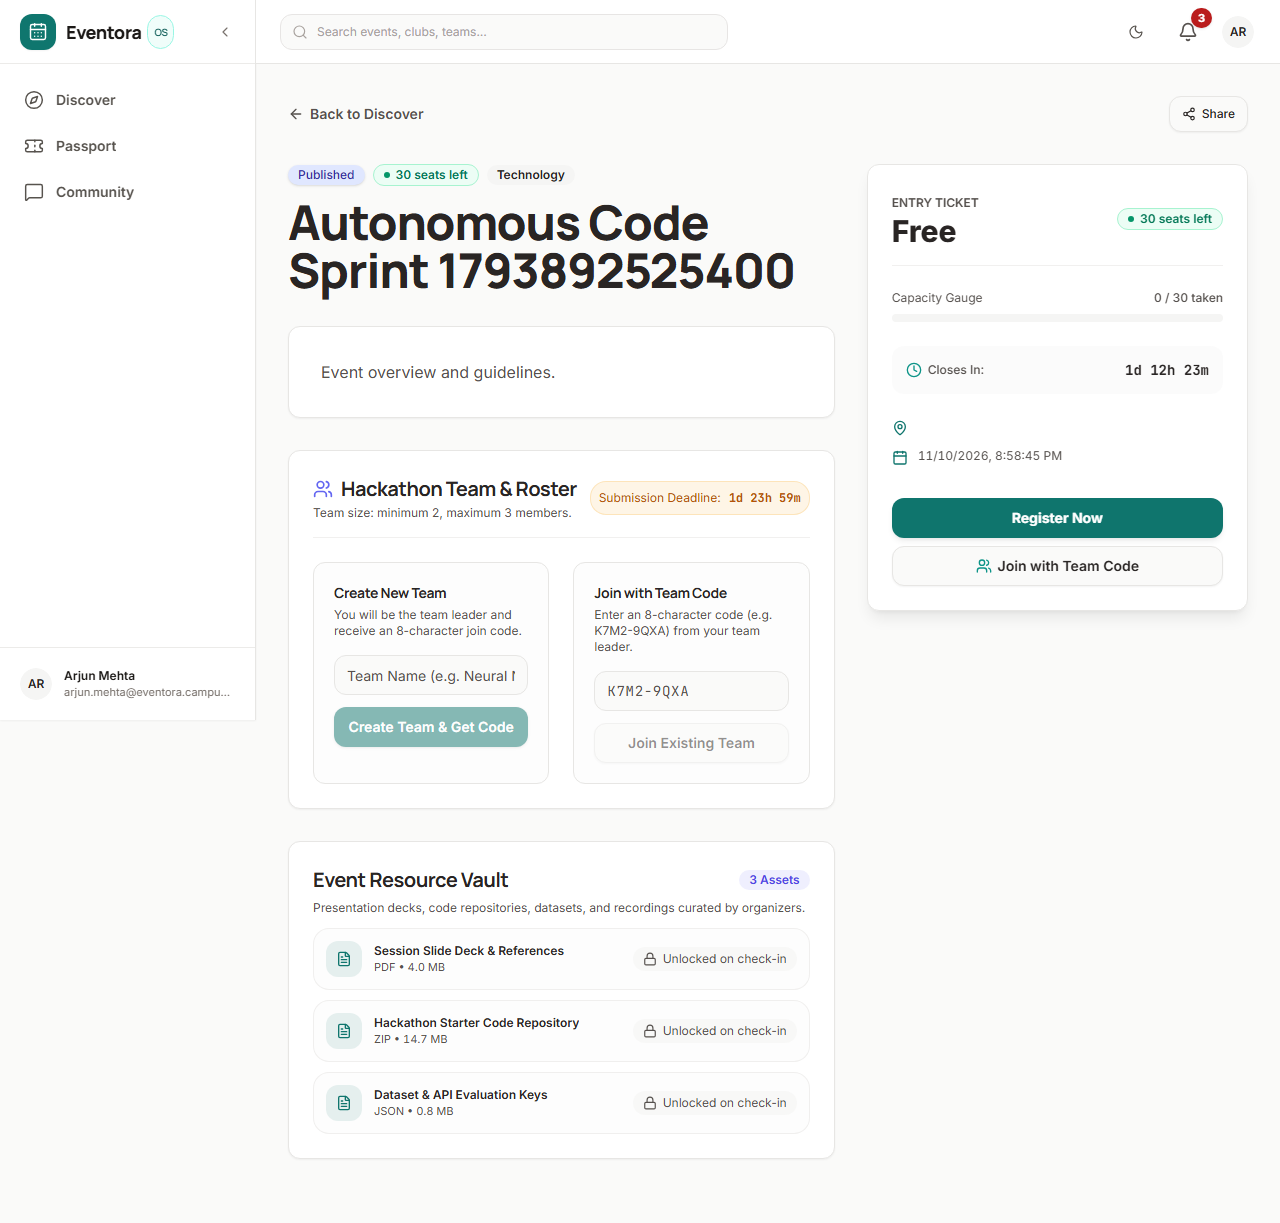
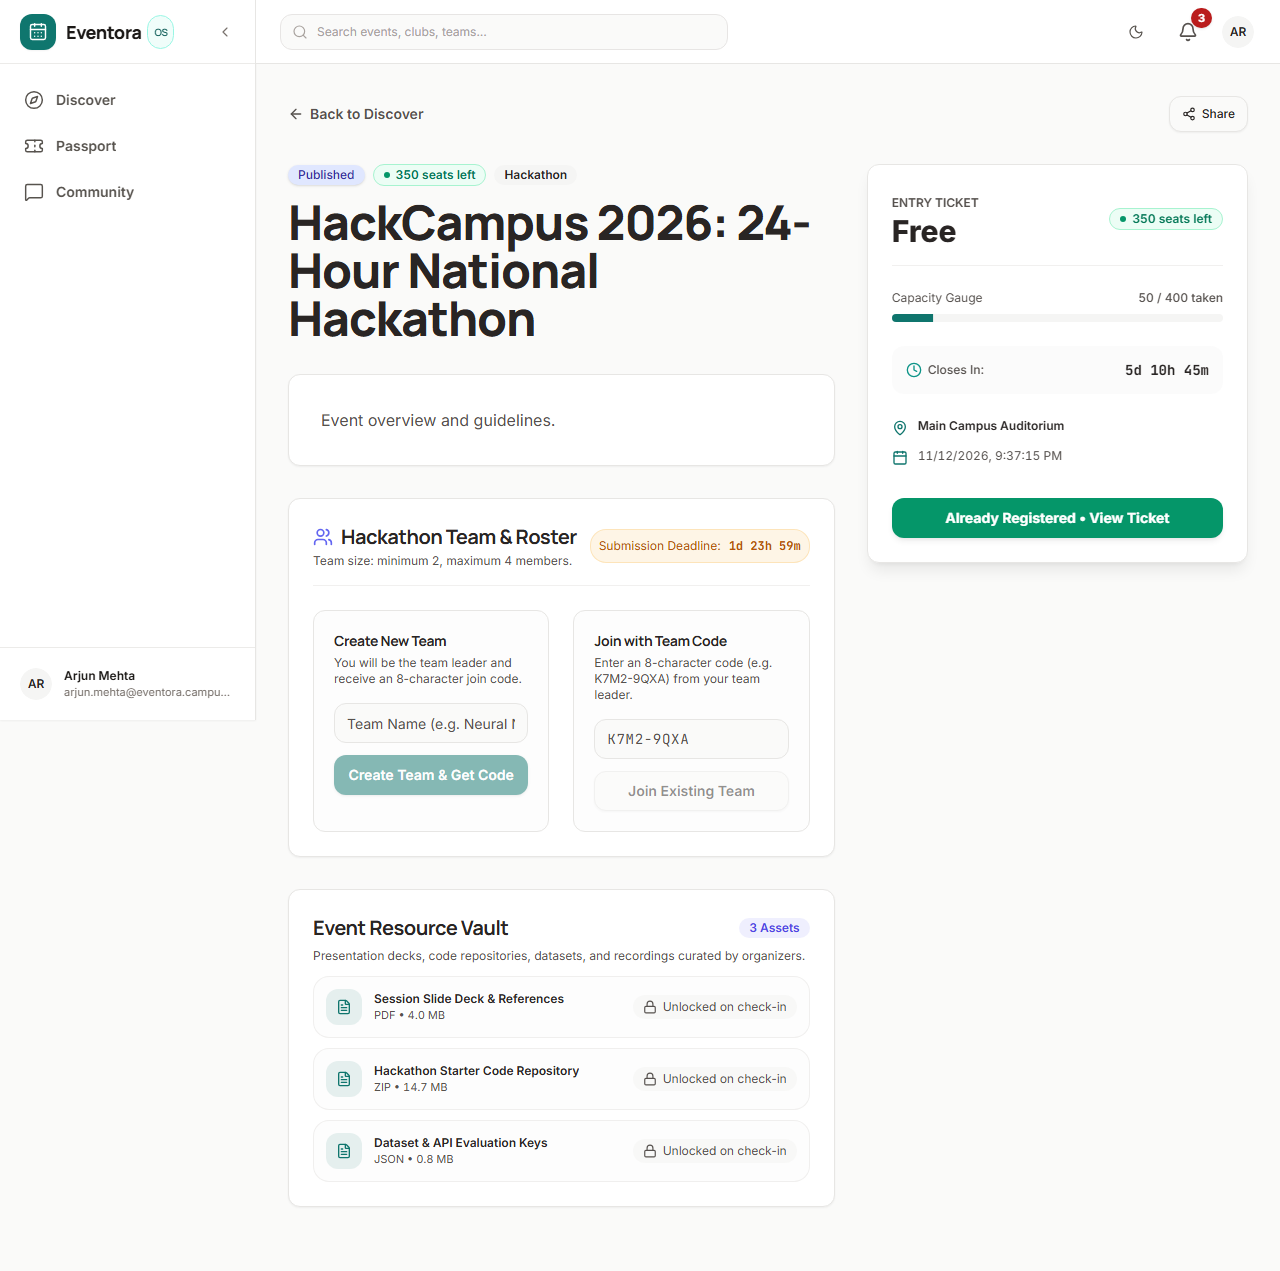
fix(e2e): cross-platform axe path resolution and seeded competition event slug in pass4 suite

diff --git a/e2e/pass4-verification.spec.ts b/e2e/pass4-verification.spec.ts
@@ -3,9 +3,28 @@ import path from 'path';
 import fs from 'fs';
 
 test.describe('Eventora Pass 4: Comprehensive Real Browser & Verification Suite', () => {
-  const WEB_URL = 'http://localhost:5173';
+  const WEB_URL = process.env.PLAYWRIGHT_TEST_BASE_URL || 'http://localhost:5173';
   const screenshotDir = path.resolve('docs/screenshots/pass4');
-  const AXE_PATH = 'C:/sai projects/smartcampus/node_modules/.pnpm/axe-core@4.14.0/node_modules/axe-core/axe.min.js';
+
+  function resolveAxePath(): string {
+    const candidates = [
+      path.resolve(process.cwd(), 'node_modules/.pnpm/axe-core@4.14.0/node_modules/axe-core/axe.min.js'),
+      path.resolve(process.cwd(), 'node_modules/axe-core/axe.min.js'),
+    ];
+    for (const c of candidates) {
+      if (fs.existsSync(c)) return c;
+    }
+    const pnpmDir = path.resolve(process.cwd(), 'node_modules/.pnpm');
+    if (fs.existsSync(pnpmDir)) {
+      const axeDir = fs.readdirSync(pnpmDir).find((d) => d.startsWith('axe-core@'));
+      if (axeDir) {
+        const candidate = path.join(pnpmDir, axeDir, 'node_modules/axe-core/axe.min.js');
+        if (fs.existsSync(candidate)) return candidate;
+      }
+    }
+    return '';
+  }
+  const AXE_PATH = resolveAxePath();
 
   test.beforeAll(() => {
     if (!fs.existsSync(screenshotDir)) {
@@ -20,7 +39,7 @@ test.describe('Eventora Pass 4: Comprehensive Real Browser & Verification Suite'
     await page.goto(`${WEB_URL}/`, { waitUntil: 'domcontentloaded' });
     await page.evaluate(() => localStorage.setItem('eventora_test_user_id', 'user_student_001'));
 
-    const eventSlug = 'code-sprint-1793892525400';
+    const eventSlug = 'hackcampus-2026';
 
     // 2. Student A navigates to competition event page
     await page.goto(`${WEB_URL}/events/${eventSlug}`, { waitUntil: 'domcontentloaded' });
